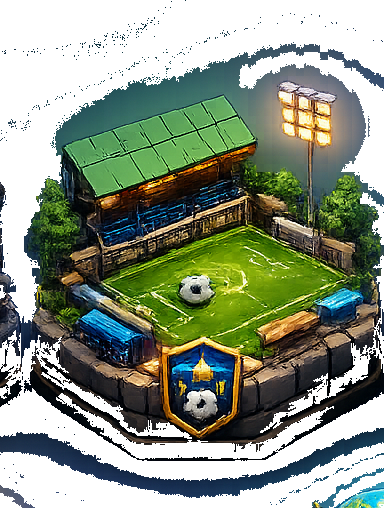
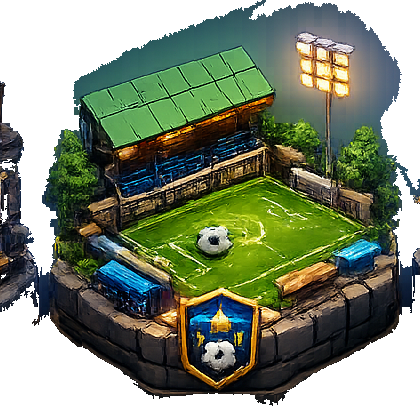
ui: single full-screen bg, flat buttons, bigger arena + full shadow, lb spinner
- One full-screen ScreenBg behind everything (transparent pages) → no header
  color-transition/seam
- Buttons: flat solid (no gradient/bevel), subtle scale press
- Arena: re-cropped (largest-component, no right clip), bigger 188px, full soft
  ground shadow
- Leaderboard menu: spinner while loading (no empty-text flash)

diff --git a/app/src/screens.tsx b/app/src/screens.tsx
@@ -112,9 +112,8 @@ function arenaIcon(arena: { minTrophies: number }): IoniconName {
 }
 
 // ---- shared primitives ----
-// Standard mobile-game button: a real top→bottom gradient (SVG) over a darker
-// bottom edge ("sit"), soft shadow, bold label. Press sinks the face onto the edge.
-// Palette: [gradientTop, gradientBottom, bottomEdge].
+// Flat, simple button: solid colour, subtle scale press feedback. Palette index
+// [1] is the solid fill (other entries kept for tonal reference).
 const BTN_PALETTE: Record<string, [string, string, string]> = {
   primary: ['#3DF29A', '#1FBE76', '#0E8C53'],
   accent: ['#FFD968', '#F5B81F', '#C68A0E'],
@@ -122,7 +121,6 @@ const BTN_PALETTE: Record<string, [string, string, string]> = {
   danger: ['#FF6E80', '#ED3F55', '#B82B3F'],
   ghost: ['transparent', 'transparent', theme.border],
 };
-let _btnSeq = 0;
 
 function Btn({
   label,
@@ -139,79 +137,50 @@ function Btn({
   icon?: IoniconName;
   big?: boolean;
 }) {
-  const press = useRef(new Animated.Value(0)).current;
-  const gid = useRef(`btng${_btnSeq++}`).current; // unique per instance (SVG gradient ids are global)
-  const [gradTop, gradBottom, edge] = BTN_PALETTE[kind] ?? BTN_PALETTE.primary!;
+  const press = useRef(new Animated.Value(1)).current;
+  const [, base] = BTN_PALETTE[kind] ?? BTN_PALETTE.primary!;
   const ghost = kind === 'ghost';
   const fg = ghost ? theme.text : '#06131F';
-  const depth = ghost ? 0 : 5;
-  const ty = press.interpolate({ inputRange: [0, 1], outputRange: [0, depth] });
   const radius = big ? 14 : 12;
   return (
     <Pressable
       disabled={disabled}
-      onPressIn={() => Animated.timing(press, { toValue: 1, duration: 55, useNativeDriver: true }).start()}
-      onPressOut={() => Animated.timing(press, { toValue: 0, duration: 120, useNativeDriver: true }).start()}
+      onPressIn={() => Animated.timing(press, { toValue: 0.96, duration: 60, useNativeDriver: true }).start()}
+      onPressOut={() => Animated.timing(press, { toValue: 1, duration: 110, useNativeDriver: true }).start()}
       onPress={disabled ? undefined : onPress}
       style={{ opacity: disabled ? 0.5 : 1, marginVertical: 6 }}
     >
-      {/* darker bottom edge + soft shadow */}
-      <View
+      {/* flat solid button — no gradient, no bevel */}
+      <Animated.View
         style={{
-          backgroundColor: ghost ? 'transparent' : edge,
-          borderRadius: radius + 1,
-          paddingBottom: depth,
-          shadowColor: '#000',
-          shadowOpacity: ghost ? 0 : 0.3,
-          shadowRadius: 7,
-          shadowOffset: { width: 0, height: 4 },
-          elevation: ghost ? 0 : 6,
+          transform: [{ scale: press }],
+          backgroundColor: ghost ? 'transparent' : base,
+          borderRadius: radius,
+          paddingVertical: big ? 16 : 13,
+          paddingHorizontal: 18,
+          flexDirection: 'row',
+          alignItems: 'center',
+          justifyContent: 'center',
+          borderWidth: ghost ? 2 : 0,
+          borderColor: ghost ? theme.border : 'transparent',
         }}
       >
-        <Animated.View
+        {icon ? <Ionicons name={icon} size={big ? 23 : 19} color={fg} style={{ marginRight: 9 }} /> : null}
+        <Text
+          numberOfLines={1}
+          adjustsFontSizeToFit
+          minimumFontScale={0.75}
           style={{
-            transform: [{ translateY: ty }],
-            backgroundColor: ghost ? 'transparent' : gradBottom,
-            borderRadius: radius,
-            paddingVertical: big ? 17 : 13,
-            paddingHorizontal: 18,
-            flexDirection: 'row',
-            alignItems: 'center',
-            justifyContent: 'center',
-            borderWidth: ghost ? 2 : 0,
-            borderColor: ghost ? theme.border : 'transparent',
-            overflow: 'hidden',
+            color: fg,
+            fontSize: big ? 18 : 15,
+            fontFamily: 'Poppins-ExtraBold',
+            letterSpacing: 0.3,
+            flexShrink: 1,
           }}
         >
-          {/* real vertical gradient fill */}
-          {!ghost ? (
-            <Svg pointerEvents="none" style={StyleSheet.absoluteFill}>
-              <Defs>
-                <SvgGradient id={gid} x1="0" y1="0" x2="0" y2="1">
-                  <Stop offset="0" stopColor={gradTop} />
-                  <Stop offset="1" stopColor={gradBottom} />
-                </SvgGradient>
-              </Defs>
-              <Rect x="0" y="0" width="100%" height="100%" rx={radius} fill={`url(#${gid})`} />
-            </Svg>
-          ) : null}
-          {icon ? <Ionicons name={icon} size={big ? 23 : 19} color={fg} style={{ marginRight: 9 }} /> : null}
-          <Text
-            numberOfLines={1}
-            adjustsFontSizeToFit
-            minimumFontScale={0.75}
-            style={{
-              color: fg,
-              fontSize: big ? 18 : 15,
-              fontFamily: 'Poppins-ExtraBold',
-              letterSpacing: 0.3,
-              flexShrink: 1,
-            }}
-          >
-            {label}
-          </Text>
-        </Animated.View>
-      </View>
+          {label}
+        </Text>
+      </Animated.View>
     </Pressable>
   );
 }
@@ -239,8 +208,8 @@ function Chip({ icon, label, onPress }: { icon: IoniconName; label: string; onPr
 // with two faint warm/cool glows. Replaces the old football-pitch pattern.
 // Full-screen patterned background (navy, Clash-Royale-like): deep-blue gradient
 // + a faint diagonal stripe pattern + soft glows. Sits behind every screen.
-const BG_TOP = '#15244F';
-function ScreenBg() {
+export const BG_TOP = '#15244F';
+export function ScreenBg() {
   return (
     <View pointerEvents="none" style={StyleSheet.absoluteFill}>
       <Svg width="100%" height="100%">
@@ -271,7 +240,6 @@ function Screen({ children }: { children: ReactNode; noPitch?: boolean }) {
       behavior={Platform.OS === 'ios' ? 'padding' : undefined}
       keyboardVerticalOffset={Platform.OS === 'ios' ? 44 : 0}
     >
-      <ScreenBg />
       {children}
     </KeyboardAvoidingView>
   );
@@ -971,15 +939,16 @@ function ArenaCrest({ arena, trophies, onPress }: { arena: { name: string; icon:
   const scale = breathe.interpolate({ inputRange: [0, 1], outputRange: [1, 1.035] });
   const ty = breathe.interpolate({ inputRange: [0, 1], outputRange: [0, -5] });
   return (
-    <Pressable onPress={onPress} style={{ marginVertical: 4, alignItems: 'center' }}>
-      {/* Small floating cut-out arena (square, 2.5D top-view) */}
-      <Animated.Image
-        source={tier.img}
-        resizeMode="contain"
-        style={{ width: 150, height: 150, transform: [{ scale }, { translateY: ty }] }}
-      />
-      {/* Ground contact shadow — the "base" it sits on */}
-      <View pointerEvents="none" style={{ width: 64, height: 9, borderRadius: 5, backgroundColor: '#000', opacity: 0.3, marginTop: -6, transform: [{ scaleX: 1.5 }] }} />
+    <Pressable onPress={onPress} style={{ marginVertical: 6, alignItems: 'center' }}>
+      {/* Floating cut-out arena (square, 2.5D top-view) with a full soft ground shadow */}
+      <View style={{ alignItems: 'center', justifyContent: 'flex-end' }}>
+        <View pointerEvents="none" style={{ position: 'absolute', bottom: 14, width: 150, height: 30, borderRadius: 15, backgroundColor: '#000', opacity: 0.4, shadowColor: '#000', shadowOpacity: 0.6, shadowRadius: 16, shadowOffset: { width: 0, height: 6 }, transform: [{ scaleX: 1.25 }] }} />
+        <Animated.Image
+          source={tier.img}
+          resizeMode="contain"
+          style={{ width: 188, height: 188, transform: [{ scale }, { translateY: ty }] }}
+        />
+      </View>
       {/* Nameplate below */}
       <View style={{ flexDirection: 'row', alignItems: 'center', gap: 9, backgroundColor: theme.card, borderRadius: 13, borderWidth: 1.5, borderColor: color + 'AA', paddingHorizontal: 14, paddingVertical: 7, marginTop: 8 }}>
         <Text style={{ color: theme.text, fontFamily: 'Poppins-ExtraBold', fontSize: 15 }} numberOfLines={1}>{arena.name}</Text>
@@ -1222,7 +1191,7 @@ export function HomeScreen({ actions, state, onLanguageChange, onGoToStore }: Pr
             ) : menuSub === 'leaderboard' ? (
               <ScrollView style={{ maxHeight: 400, paddingHorizontal: 14, paddingTop: 8 }} showsVerticalScrollIndicator={false}>
                 {state.leaderboard.length === 0 ? (
-                  <Text style={[styles.muted, { textAlign: 'center', paddingVertical: 30 }]}>{t('leaderboard.empty')}</Text>
+                  <View style={{ alignItems: 'center', paddingVertical: 30 }}><ActivityIndicator color={theme.primary} /></View>
                 ) : state.leaderboard.map((entry) => (
                   <View key={entry.rank} style={{ flexDirection: 'row', alignItems: 'center', gap: 8, paddingVertical: 8, borderBottomWidth: 1, borderBottomColor: theme.border }}>
                     <Text style={{ color: entry.rank <= 3 ? ['#FFD700','#C0C0C0','#CD7F32'][entry.rank-1] : theme.muted, fontWeight: '900', fontSize: 14, width: 26 }}>{entry.rank}</Text>
@@ -3385,7 +3354,7 @@ export function ResultScreen({ state, actions, tutorial }: Props) {
 }
 
 const styles = StyleSheet.create({
-  screen: { flex: 1, backgroundColor: theme.bg, padding: 22, justifyContent: 'center' },
+  screen: { flex: 1, backgroundColor: 'transparent', padding: 22, justifyContent: 'center' },
   center: { alignItems: 'center', gap: 6 },
   logo: { color: theme.primary, fontSize: 28, fontFamily: 'Poppins-Black', textAlign: 'center', letterSpacing: 2, marginRight: -2, marginTop: 6 },
   tagline: { color: theme.muted, textAlign: 'center', marginBottom: 20, marginTop: 4, fontSize: 12, fontFamily: 'Poppins-SemiBold' },

diff --git a/app/App.tsx b/app/App.tsx
@@ -17,6 +17,7 @@ import { t, setLanguage } from './src/i18n';
 import {
   SplashScreen,
   LoadingScreen,
+  ScreenBg,
   TutorialScreen,
   LoginScreen,
   UsernameScreen,
@@ -153,6 +154,7 @@ export default function App() {
     return (
       <View style={s.root}>
         <StatusBar style="light" />
+        <ScreenBg />
         <LoginScreen state={state} actions={actions} />
       </View>
     );
@@ -163,6 +165,7 @@ export default function App() {
     return (
       <View style={s.root}>
         <StatusBar style="light" />
+        <ScreenBg />
         <UsernameScreen state={state} actions={actions} />
       </View>
     );
@@ -186,6 +189,7 @@ export default function App() {
     return (
       <View style={s.root}>
         <StatusBar style="light" />
+        <ScreenBg />
         <LoadingScreen state={state} actions={actions} onReady={() => setLoaded(true)} />
       </View>
     );
@@ -222,6 +226,7 @@ export default function App() {
     return (
       <View style={s.root}>
         <StatusBar style="light" />
+        <ScreenBg />
         {screen}
         {state.matchInvite ? (
           <InviteBanner
